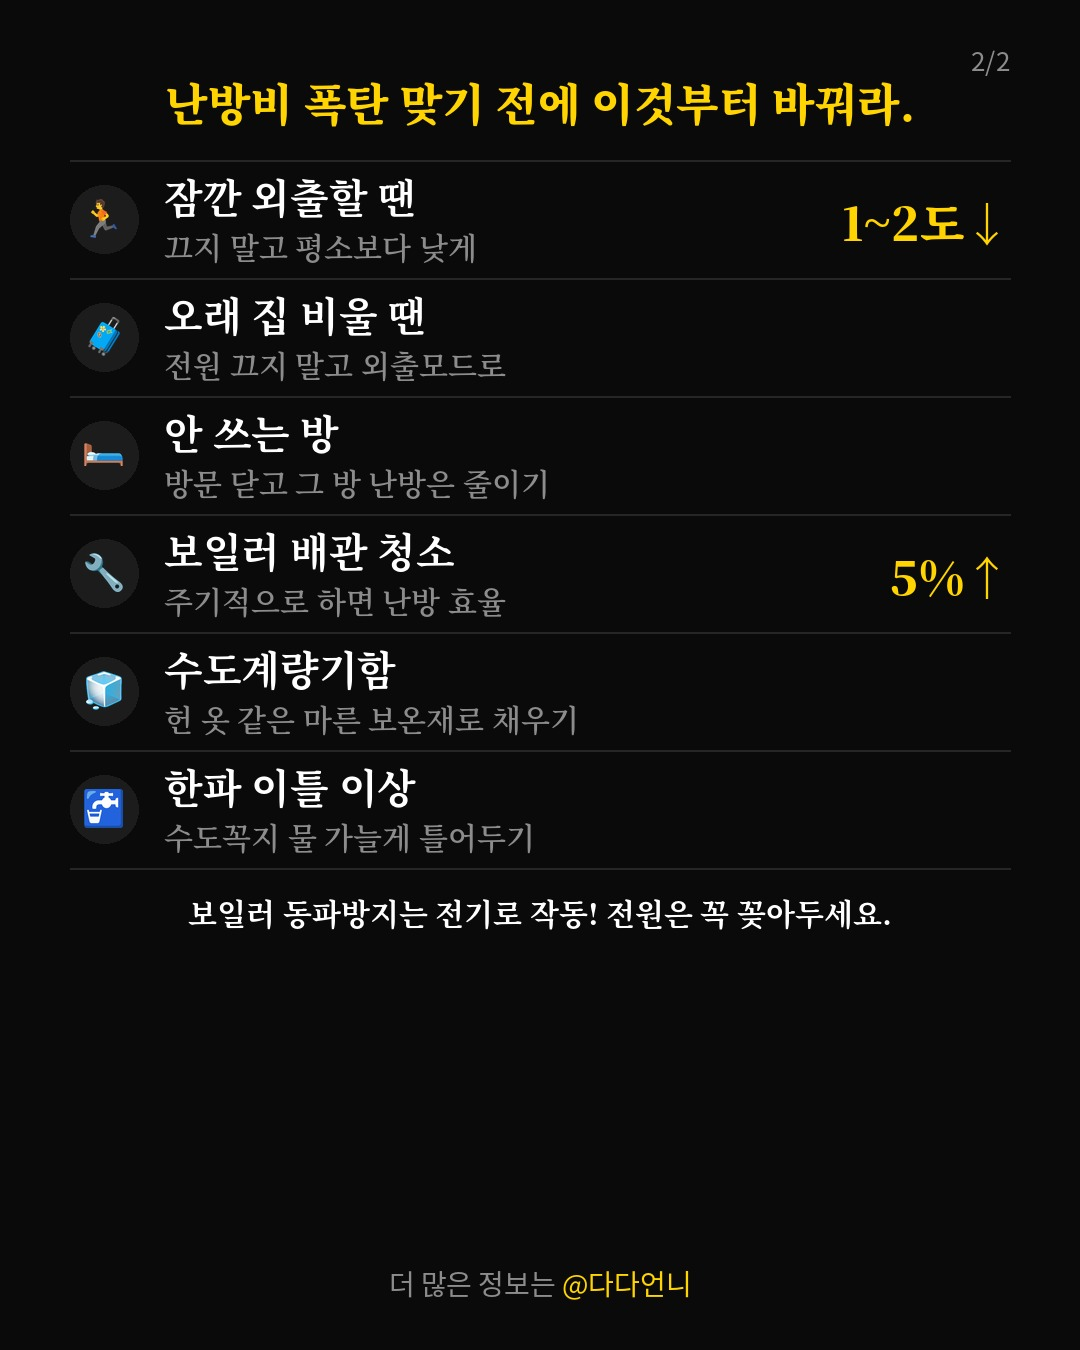
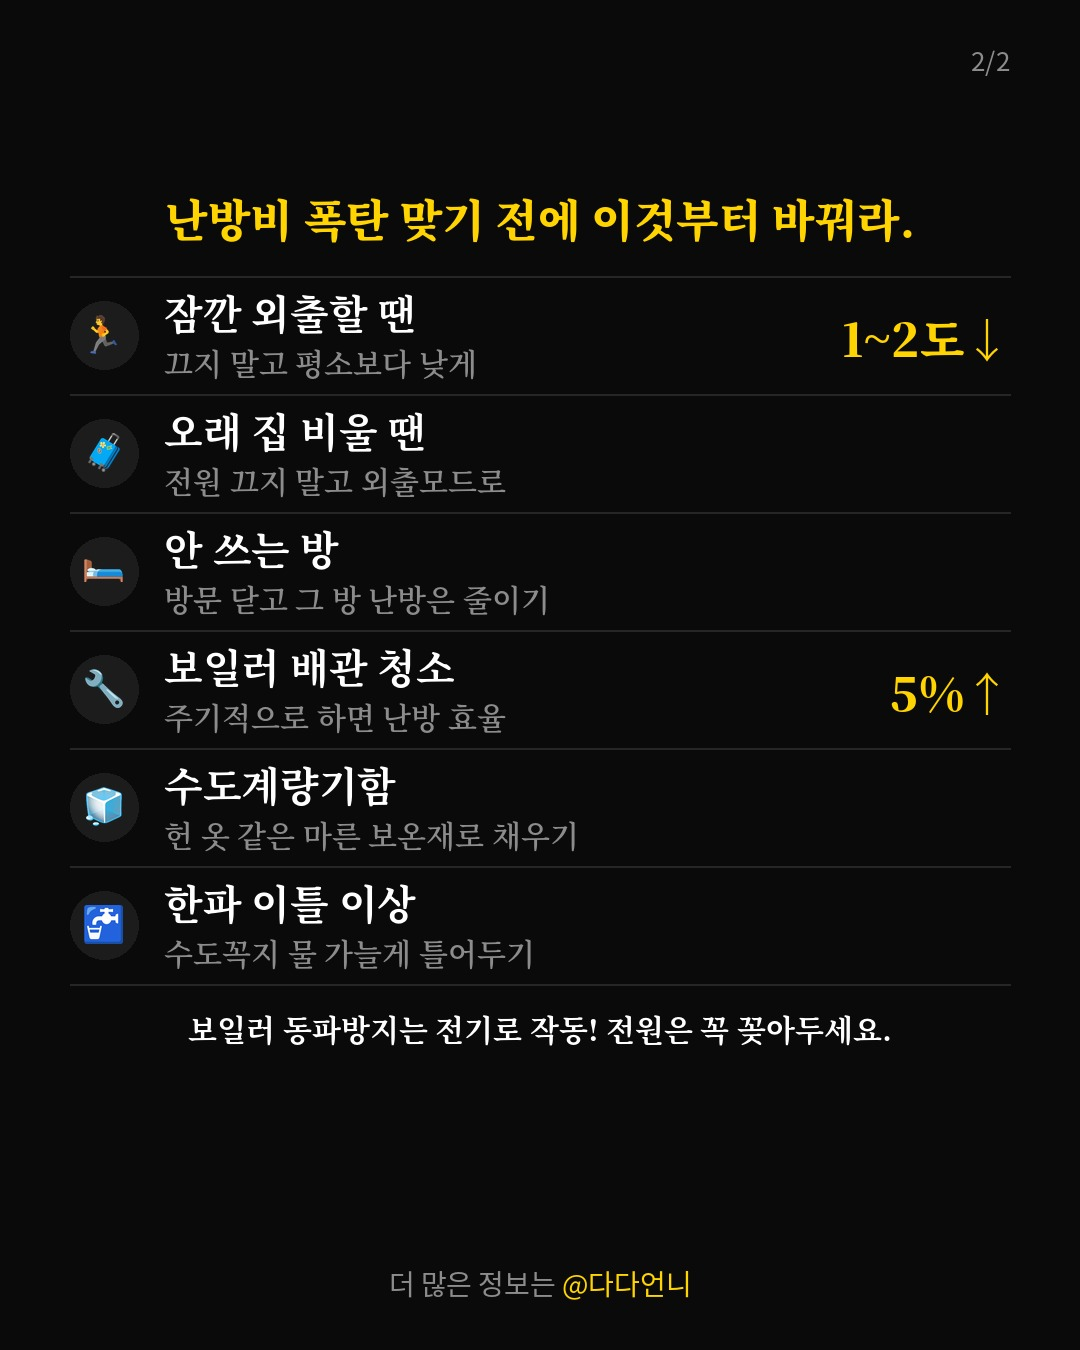
dada: center later pages vertically

diff --git a/tools/dada_gen.py b/tools/dada_gen.py
@@ -90,12 +90,18 @@ def page(data, rows, pno, ptotal, first, last):
         center(d, data["title1"], y, f1, WHITE); center(d, data["title2"], y + 92, f2, YEL)
         top = y + 215
     else:
+        # 2장째부터: 머리글+항목 묶음 전체를 세로 가운데 정렬
+        n = len(rows)
+        note_h = 70 if (last and data.get("note")) else 0
+        RH = min(118, (1225 - 160 - note_h) / max(n, 1))
+        block = 90 + n * RH + note_h
+        hy = max(60, (1240 - block) / 2)
         hf = fit(d, data["title1"] + " " + data["title2"], lambda s: serif("Black", s), 44, W - 2 * M - 80, 32)
-        center(d, data["title1"] + " " + data["title2"], 70, hf, YEL)
-        top = 160
+        center(d, data["title1"] + " " + data["title2"], hy, hf, YEL)
+        top = hy + 90
     bottom = 1180 if (last and data.get("note")) else 1225
     n = len(rows)
-    RH = min(118, (bottom - top) / max(n, 1))
+    RH = min(118, (bottom - top) / max(n, 1)) if first else RH
     has_sub = any(r.get("sub") for r in rows)
     big = RH >= 100
     lf_s, sf_s, vf_s = (40, 30, 46) if big else (36, 27, 42)
